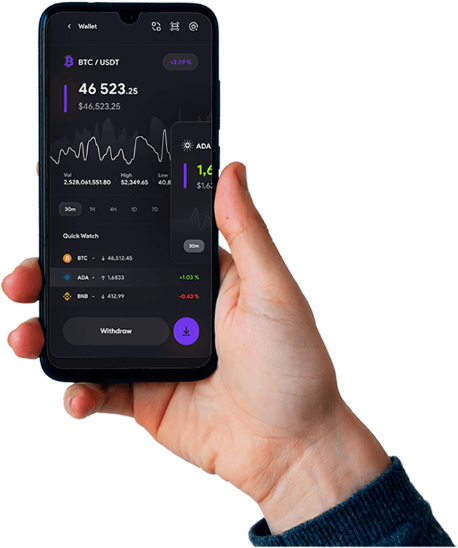
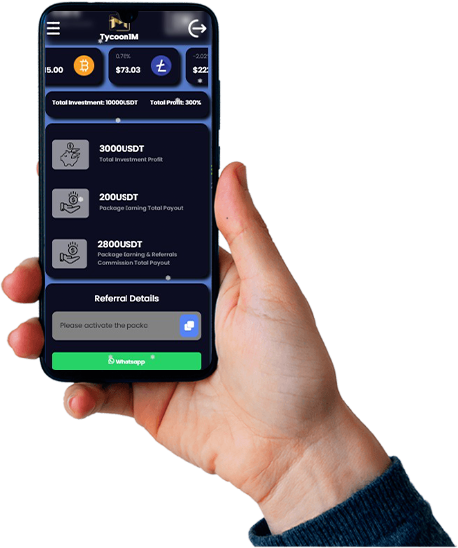
#164  Slider image (crypro-2)  webite  - UI Design

Changed region(s): [[0.0917, 0.0, 0.4891, 0.6825]]

diff --git a/public/assets/frontend/css/responsive.css b/public/assets/frontend/css/responsive.css
@@ -608,9 +608,10 @@
     font-size: 14px;
     padding: 12px 20px;
 }
-.slider-thumb img {
-    width: 100%;
-}
+
+
+
+
 .seps_img {
     display: none;
 }
@@ -899,4 +900,42 @@ header.main-header {
 }
 
 }
+
+
+
+@media only screen and (min-width: 320px) and (max-width: 599px) {
+
+
+.slider-thumb img {
+        width: 110%;
+    }
+
+
+div#particles .slider-thumb
+{
+  position: relative;
+  top: -50px;
+  margin-left: 82px;
+}
+
+}
+
+@media screen and (min-width: 299px) and (max-width: 320px) {
+    
+    .slider-thumb img {
+        width: 110%;
+    }
+
+
+    div#particles .slider-thumb
+    {
+      position: relative;
+      top: -16px;
+      margin-left: 82px;
+    }
+
+  }
+
+
+
 

diff --git a/public/assets/frontend/css/style.css b/public/assets/frontend/css/style.css
@@ -3340,3 +3340,6 @@ div#particles .slider-thumb {
   width: 130px;
   height: 36px;
 }
+.mobile-crypto-2{
+    wi
+}
